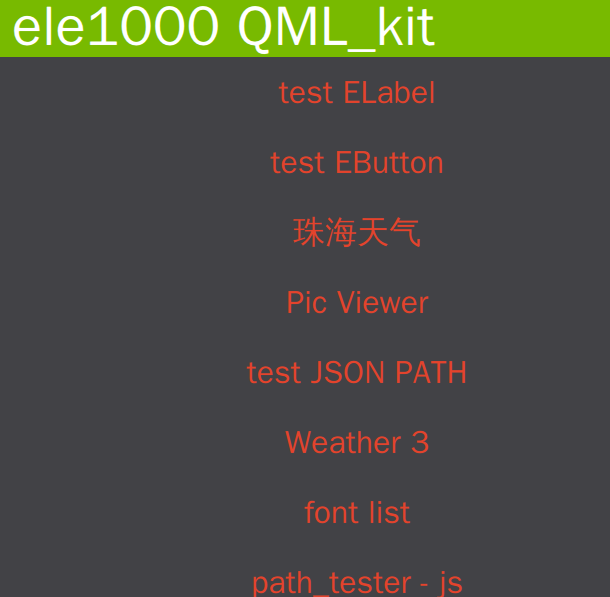
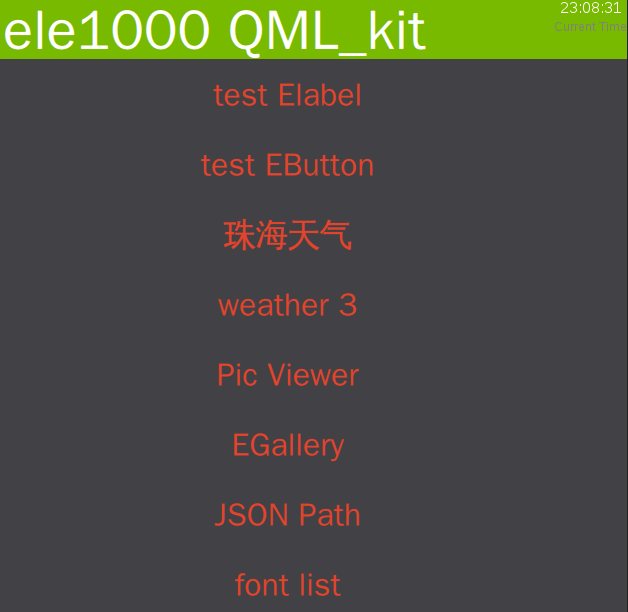
:snowflake: add ECircleNum and EProgressBarStyle

diff --git a/main.qml b/main.qml
@@ -14,16 +14,17 @@ ApplicationWindow  {
     Component.onCompleted : {
         page_model.clear();
  
-        page_model.append({ title : "test Elabel",       page : "test/test_elabel.qml"});
-        page_model.append({ title : "test EButton",      page : "test/test_ebutton.qml"});
-        page_model.append({ title : "珠海天气",          page : "test/zh_weather.qml"});
-        page_model.append({ title : "weather 3",         page : "test/weather3.qml"});
-        page_model.append({ title : "Pic Viewer",        page : "test/pic_viewer.qml"});
-        page_model.append({ title : "EGallery",          page : "test/test_gallery.qml"});
-        page_model.append({ title : "JSON Path",         page : "test/json_path.qml"});
-        page_model.append({ title : "font list",         page : "test/listfont.qml"});
-        page_model.append({ title : "path_tester - js",  page : "test/path_tester.qml"});
-        page_model.append({ title : "path tester - cpp", page : "test/cpp_path.qml"});
+        page_model.append({ title : "test Elabel",        page : "test/test_elabel.qml"});
+        page_model.append({ title : "test EButton",       page : "test/test_ebutton.qml"});
+        page_model.append({ title : "珠海天气",           page : "test/zh_weather.qml"});
+        page_model.append({ title : "weather 3",          page : "test/weather3.qml"});
+        page_model.append({ title : "Pic Viewer",         page : "test/pic_viewer.qml"});
+        page_model.append({ title : "EGallery",           page : "test/test_gallery.qml"});
+        page_model.append({ title : "JSON Path",          page : "test/json_path.qml"});
+        page_model.append({ title : "font list",          page : "test/listfont.qml"});
+        page_model.append({ title : "path_tester - js",   page : "test/path_tester.qml"});
+        page_model.append({ title : "path tester - cpp",  page : "test/cpp_path.qml"});
+        page_model.append({ title : "circle num and bar", page : "test/test_num_bar.qml"});
 
     }
 
@@ -142,6 +143,7 @@ ApplicationWindow  {
 //                Qt.quit();
 //                });
             var obj =   Kit.newObject("../widget/EMsg.qml", {"info": "zzz"}, root);
+            obj.show("zzz");
             obj.accepted.connect(function(){
                 Qt.quit();
             });

diff --git a/widget/EProgressBarStyle.qml b/widget/EProgressBarStyle.qml
@@ -1,0 +1,47 @@
+import QtQuick 2.2
+import QtQuick.Controls.Styles 1.2
+
+ProgressBarStyle {
+    id  : root
+
+    property var bg_color          : ""
+    property var bg_broder_color   : ""
+    property var bg_img            : ""
+
+    property var fill_color        : ""
+    property var fill_border_color : ""
+    property var fill_img          : ""
+
+    function selectWhich(value, default_value){
+        return value.length > 0 ? value : default_value;
+    }
+
+    background: Rectangle {
+        id             : _bg
+        radius         : 2
+        color          : selectWhich(bg_color, "lightgray");
+        border.color   : selectWhich(bg_broder_color, color);
+        border.width   : 1
+        implicitWidth  : 200
+        implicitHeight : 24
+
+        Image {
+            id           : _bg_img
+            anchors.fill : parent
+            source       : selectWhich(bg_img, "");
+        }
+
+    }
+    progress: Rectangle {
+        id           : _progress
+        color        : selectWhich(fill_color, "lightsteelblue");
+        border.color : selectWhich(fill_border_color, color);
+
+        Image {
+            id           : _progress_img
+            anchors.fill : parent
+            source       : selectWhich( fill_img, "");
+        }
+    }
+
+}

diff --git a/widget/ECircleNum.qml b/widget/ECircleNum.qml
@@ -1,0 +1,37 @@
+import QtQuick 2.0
+
+ECircle {
+    id    : root
+    width : _cir1.width + 4
+    color : "black"
+
+    property alias num    : _text.text
+    property alias font   : _text.font
+    property var   margin : 4
+
+    Component.onCompleted : {
+        _cir1.width  = _text.paintedWidth + margin;
+        root.width   = _cir1.width + margin;
+    }
+
+    ECircle {
+        id    : _cir1
+        width : ( _text.paintedWidth) + 4
+        color : "white"
+
+        anchors {
+            horizontalCenter : parent.horizontalCenter
+            verticalCenter   : parent.verticalCenter
+        }
+
+        ELabel {
+            id   : _text
+            text : "42"
+
+            anchors {
+                horizontalCenter : parent.horizontalCenter
+                verticalCenter   : parent.verticalCenter
+            }
+        }
+    }
+}

diff --git a/test/test_num_bar.qml b/test/test_num_bar.qml
@@ -1,0 +1,36 @@
+import QtQuick 2.0
+import QtQuick.Controls 1.4
+import "../widget"
+
+Rectangle {
+	id     : root
+	width  : parent.width
+	height : parent.height
+	color  : "beige"
+
+    ECircleNum {
+        id  : _num1
+        num : "42"
+        x   : 10
+        y   : 10
+    }
+    Column {
+
+        x : 50
+        y : 60
+
+        ProgressBar {
+            value : 0.5
+            style : EProgressBarStyle{
+                bg_color   : "black"
+                fill_color : "tomato"
+            }
+        }
+        ProgressBar {
+            indeterminate: true
+        }
+    }
+    
+
+}
+

diff --git a/README.md b/README.md
@@ -6,12 +6,14 @@
   - EButton - A button
   - ECircle - circle with color animation
   - ECurrTime - display current Time
+  - ECircleNum - number with circle
   - EGallery - image gallery type 2
   - ELabel - simple text
   - EMsg   - msg box
+  - EProgressBarStyle - custom ProgressBar style
   - EScrollText - a text area with scrollbar
   - EpicSlider - A  pic viewer
-  - EJSONListModel - json list model
+  - JSONListModel - json list model
   - SCrollBar - scroll bar
   - Weatherdelegate - a simple  weather delegate widget :blush:
 
